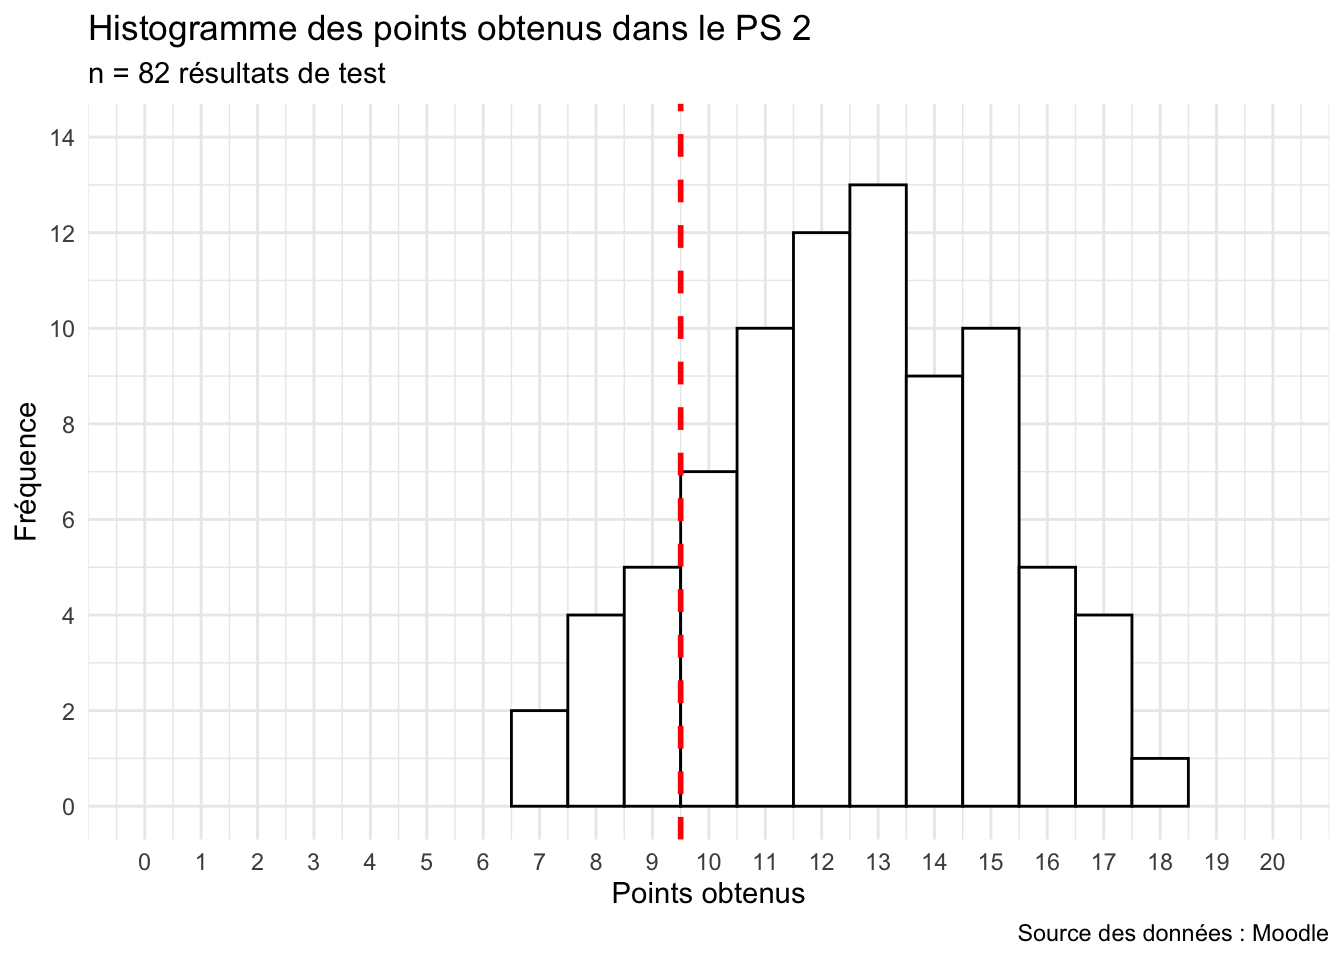
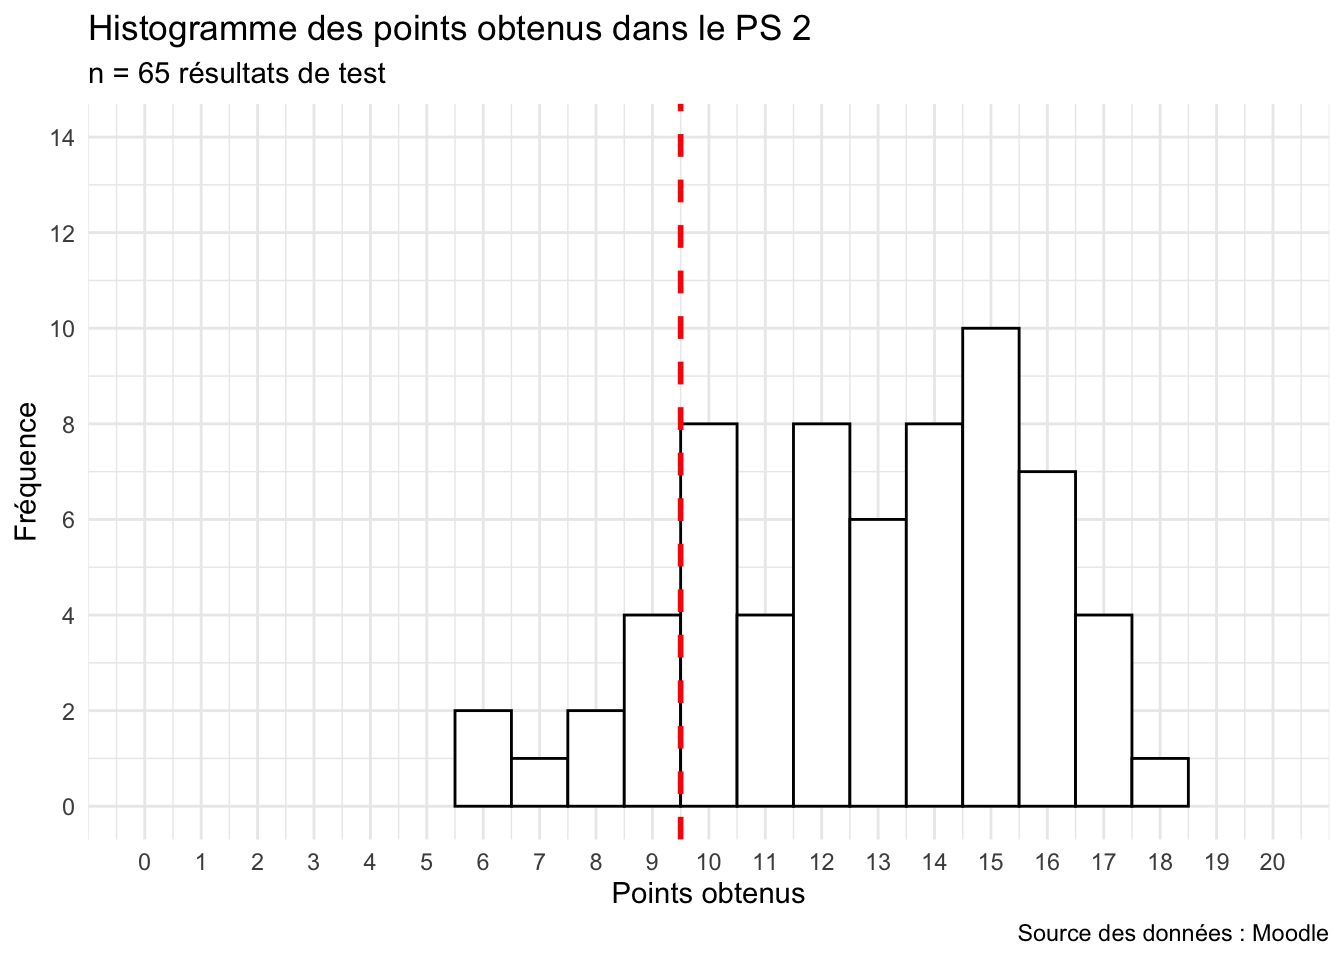
update ps2 28/3/25

diff --git a/index.html b/index.html
@@ -2012,11 +2012,11 @@ Astuce
 <section id="session-6-problem-set-2" class="level1">
 <h1>Session 6 (Problem Set 2)</h1>
 <p>Les résultats du <strong>Problem Set 2</strong> (bonnes réponses, échelle des notes) sont accéssibles sur la page Moodle de l’exercice.</p>
-<p>Voici l’histogramme des points obtenus par n = 82 étudiant-e-s qui ont participé au Problem Set 2.</p>
+<p>Voici l’histogramme des points obtenus par n = 65 étudiant-e-s qui ont participé au Problem Set 2 le 26 et 27 mars 2025.</p>
 <ul>
 <li><p>Le nombre maximal de points était de 20, il fallait 10 pour passer le test.</p></li>
-<li><p>La moyenne des points obtenus était de 12.5 (note = 4.5).</p></li>
-<li><p>71 étudiant-e-s (86%) ont réussi Problem Set 2.</p></li>
+<li><p>La moyenne des points obtenus était de 12.7 (note = 4.5).</p></li>
+<li><p>56 étudiant-e-s (86%) ont réussi Problem Set 2.</p></li>
 </ul>
 <div class="cell">
 <div class="cell-output-display">
